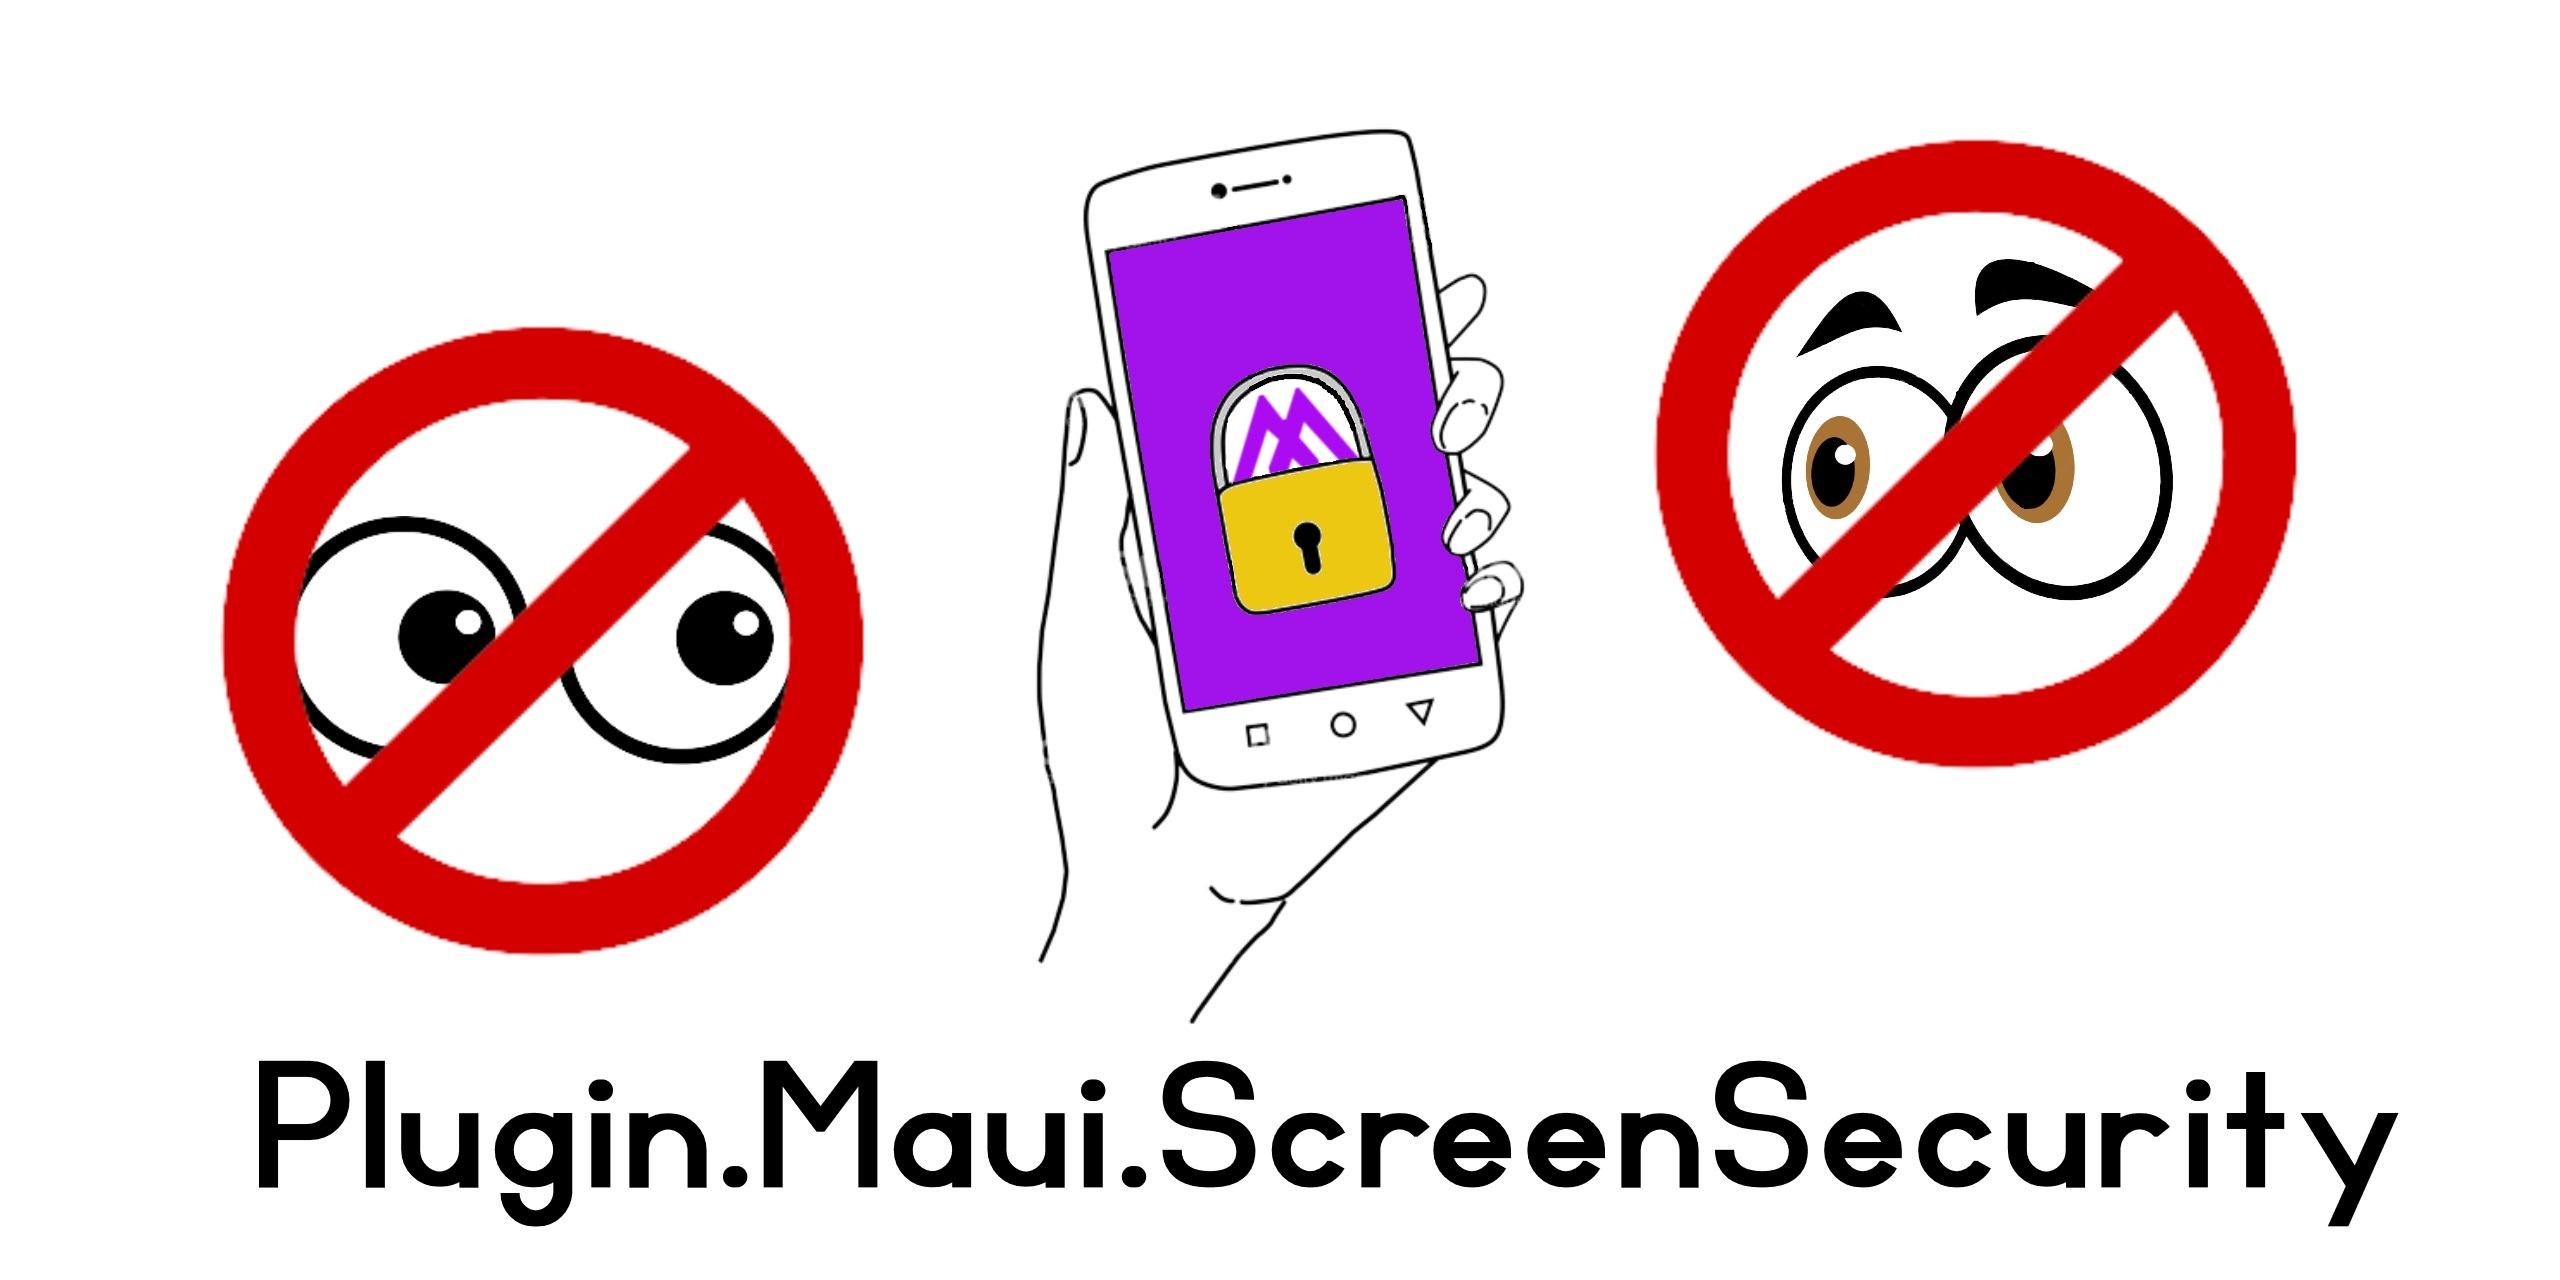
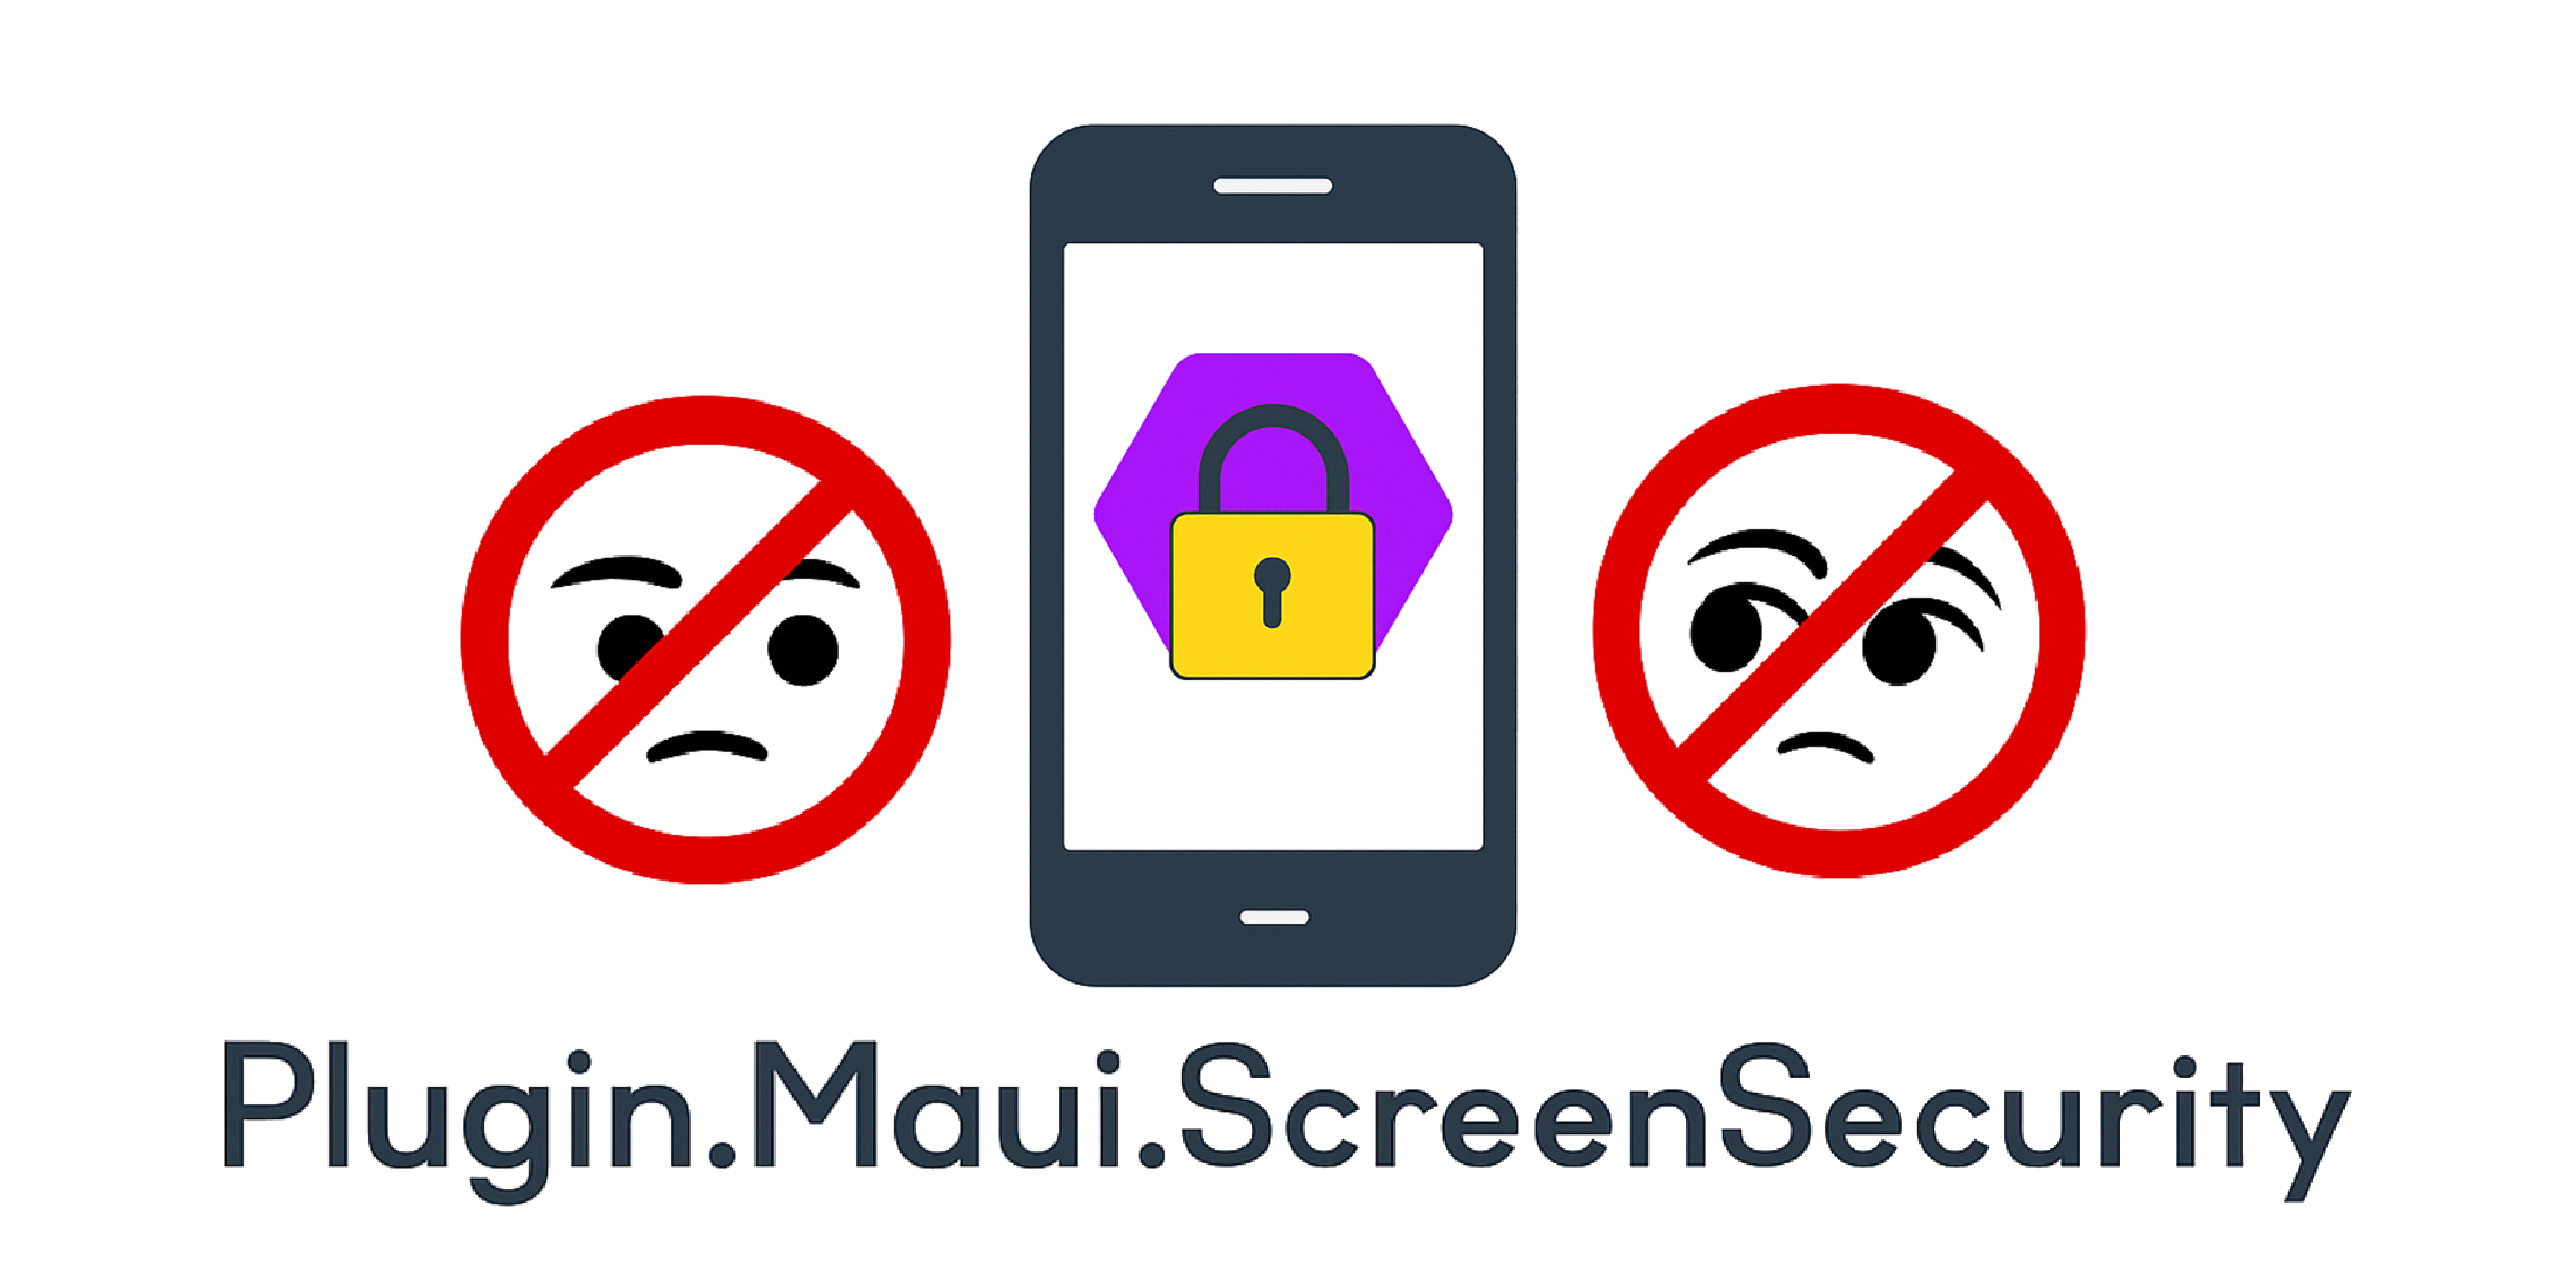
New release 1.2.3 (#60)

Changed region(s): [[0.0625, 0.0938, 0.5938, 0.7812], [0.625, 0.0938, 0.9062, 0.6875], [0.0625, 0.8125, 0.9375, 0.9688]]

diff --git a/README.md b/README.md
@@ -1,31 +1,34 @@
+![](Assets/plugin.maui.screensecurity_128x128.png)
+
 # Plugin.Maui.ScreenSecurity
 [![NuGet](https://img.shields.io/nuget/v/Plugin.Maui.ScreenSecurity.svg?label=NuGet)](https://www.nuget.org/packages/Plugin.Maui.ScreenSecurity) [![NuGet Downloads](https://img.shields.io/nuget/dt/Plugin.Maui.ScreenSecurity)](https://www.nuget.org/packages/Plugin.Maui.ScreenSecurity/#versions-body-tab) [![Buy Me a Coffee](https://img.shields.io/badge/support-buy%20me%20a%20coffee-FFDD00)](https://buymeacoffee.com/fabribertani)
 
 `Plugin.Maui.ScreenSecurity` provides a seamless solution for preventing content exposure, as well as blocking screenshots and recordings within your .NET MAUI application
 
 ## Platforms supported
-|Platform|Version|
-|-------------------|:------------------:|
-|.Net MAUI Android|API 21+|
-|.Net MAUI iOS|iOS 14+|
-|Windows|10.0.17763+|
+| Platform          |   Version   |
+|-------------------|:-----------:|
+| .Net MAUI Android | API 21+     |
+| .Net MAUI iOS.    | iOS 14.2+   |
+| Windows           | 10.0.17763+ |
 
-## Version 1.2.2
+## Version 1.2.3
 
 ### What's new?
-- Removed .Net7 support. :warning:
-- Added .Net9 support for all platforms.
-- Code improvements were applied.
-- Fixed an issue where blur protection was not being disabled.
-- Fixed a bug that prevented samples projects from compiling.
-- Fixed package build to properly include Windows platform.
+- Added the `ThrowErrors` property to allow users to catch exceptions with the new error handling implementation.
+- Added better hooks, error handling and logging.
+- Added support for Windows 10 Version 2004 and above.
+- Applied code improvements to the library.
+- Updated sample project.
+- Changed CHANGELOG date format to **ISO 8601** `(yyyy-MM-dd)`.
+- Fixed the issue where the screen protection code was not running on the main thread.
 
-Click [here](https://github.com/FabriBertani/Plugin.Maui.ScreenSecurity/releases/tag/v1.2.2) to see the full Changelog!
+Click [here](https://github.com/FabriBertani/Plugin.Maui.ScreenSecurity/releases/tag/v1.2.3) to see the full Changelog!
 
 ## Installation
 `Plugin.Maui.ScreenSecurity` is available via NuGet, grab the latest package and install it on your solution:
 
-    Install-Package Plugin.Maui.ScreenSecurity
+    dotnet add package Plugin.Maui.ScreenSecurity --version 1.2.3
 
 Initialize the plugin in your `MauiProgram` class:
 
@@ -57,13 +60,8 @@ In your `Android.manifest` file (Platforms/Android) add the following permission
 <uses-permission android:name="android.permission.DETECT_SCREEN_CAPTURE" />
 ```
 
-### Using Plugin.Maui.ScreenSecurity
+## Using Plugin.Maui.ScreenSecurity
 
-Finally, add the default instance of the plugin as a singleton to inject it in your code late:
-
-```csharp
-builder.Services.AddSingleton<IScreenSecurity>(ScreenSecurity.Default);
-```
 ## :warning:  WARNING  :warning:
 It's important to acknowledge that preventing users from taking screenshots or recordings of your app can be a challenging task and achieving complete prevention may not be feasible. It's worth noting that no method can entirely eliminate the possibility of your screen being captured through another physical device or a potential breach in the OS.
 
@@ -122,6 +120,11 @@ bool IsProtectionEnabled { get; }
 This bool checks if screen protection is enabled.
 
 ```csharp
+ThrowErrors
+```
+This will allow users to catch exceptions with the new error handling implementation.
+
+```csharp
 event EventHandler<EventArgs>? ScreenCaptured;
 ```
 The event handler is triggered when the screen is captured, either through a screenshot or recording on Android and iOS, **but only for screenshots on Windows**.
@@ -138,6 +141,9 @@ public partial class MainPage : ContentPage
         InitializeComponent();
 
         _screenSecurity = screenSecurity;
+
+        // Set to true if you want to catch exceptions.
+        _screenSecurity.ThrowErrors = true;
     }
 
     protected override void OnAppearing()
@@ -147,8 +153,15 @@ public partial class MainPage : ContentPage
         // Check if screen security protection is not enabled
         if (!_screenSecurity.IsProtectionEnabled)
         {
-            // Activate the screen security protection with default settings
-            _screenSecurity.ActivateScreenSecurityProtection();
+            try
+            {
+                // Activate the screen security protection with default settings
+                _screenSecurity.ActivateScreenSecurityProtection();
+            }
+            catch (Exception ex)
+            {
+                // Handle the exception here...
+            }
         }
 
         // Attach to the ScreenCaptured event handler
@@ -201,10 +214,10 @@ public partial class MainPage : ContentPage
 Refer to the [samples folder](https://github.com/FabriBertani/Plugin.Maui.ScreenSecurity/tree/main/samples) for a detailed implementation of this plugin for both Maui and Blazor, which will give you a complete understanding of its usage.
 
 ## Contributions
-Please feel free to open an [Issue](https://github.com/FabriBertani/Plugin.Maui.ScreenSecurity/issues) if you encounter any bugs or submit a PR to contribute improvements or fixes. Your contributions are greatly appreciated.
+Feel free to open an [Issue](https://github.com/FabriBertani/Plugin.Maui.ScreenSecurity/issues) if you encounter any bugs or submit a PR to contribute improvements or fixes. Your contributions are greatly appreciated.
 
 ## License
-The Plugin.Maui.ScreenSecurity is licensed under [MIT](https://github.com/FabriBertani/Plugin.Maui.ScreenSecurity/blob/main/LICENSE) license.
+Plugin.Maui.ScreenSecurity is licensed under [MIT](https://github.com/FabriBertani/Plugin.Maui.ScreenSecurity/blob/main/LICENSE) license.
 
 ## Contributors
 

diff --git a/CHANGELOG.md b/CHANGELOG.md
@@ -1,13 +1,27 @@
 # Changelog
 
-## 1.2.2 (02/06/2025)
+## 1.2.3 (2025/10/09)
+[Full Changelog](https://github.com/FabriBertani/Plugin.Maui.ScreenSecurity/compare/v1.2.2...v1.2.3)
+
+**Implemented enhancements:**
+- Added the `ThrowErrors` property to allow users to catch exceptions with the new error handling implementation.
+- Added better hooks, error handling and logging.
+- Added support for Windows 10 Version 2004 and above.
+- Applied code improvements to the library.
+- Updated sample project.
+- Changed CHANGELOG date format to **ISO 8601** `(yyyy-MM-dd)`.
+
+**Fixed bugs:**
+- Fixed [#57 (Crash release - Main Thread issue)](https://github.com/FabriBertani/Plugin.Maui.ScreenSecurity/issues/57)
+
+## 1.2.2 (2025/06/02)
 [Full Changelog](https://github.com/FabriBertani/Plugin.Maui.ScreenSecurity/compare/v1.2.1...v1.2.2)
 
 **Fixed bugs:**
 - Fixed a bug that prevented samples projects from compiling.
 - Fixed package build to properly include Windows platform.
 
-## 1.2.1 (25/05/2025)
+## 1.2.1 (2025/05/25)
 [Full Changelog](https://github.com/FabriBertani/Plugin.Maui.ScreenSecurity/compare/v1.2.0...v1.2.1)
 
 **Implemented enhancements:**
@@ -18,7 +32,7 @@
 **Fixed bugs:**
 - Fixed issue where blur protection was not being disabled.
 
-## 1.2.0 (14/10/2024)
+## 1.2.0 (2024/10/14)
 [Full Changelog](https://github.com/FabriBertani/Plugin.Maui.ScreenSecurity/compare/v1.1.6...v1.2.0)
 
 **Implemented enhancements:**
@@ -33,21 +47,21 @@
 - Fixed `GetWindow` method on iOS.
 - Merged [#39: Bug iOS on Blur](https://github.com/FabriBertani/Plugin.Maui.ScreenSecurity/pull/39) PR by [fabien367](https://github.com/fabien367).
 
-## 1.1.8-beta (25/05/2024)
+## 1.1.8-beta (2024/05/25)
 [Full Changelog](https://github.com/FabriBertani/Plugin.Maui.ScreenSecurity/compare/v1.1.7-beta...v1.1.8-beta)
 
 **Implemented enhancements:**
 - Added `Blazor` sample to showcase the implementation of this plugin.
 - Added `IsProtectionEnabled` property to check if screen protection is already enabled or disabled.
 
-## 1.1.7-beta (18/05/2024)
+## 1.1.7-beta (2024/05/18)
 [Full Changelog](https://github.com/FabriBertani/Plugin.Maui.ScreenSecurity/compare/v1.1.6...v1.1.7-beta)
 
 **Fixed bugs:**
 - Implemented a new screenshot prevention method for iOS 17.
 - Fixed `GetWindow` method on iOS.
 
-## 1.1.6 (18/03/2024)
+## 1.1.6 (2024/03/18)
 [Full Changelog](https://github.com/FabriBertani/Plugin.Maui.ScreenSecurity/compare/v1.1.5...v1.1.6)
 
 **Implemented enhancements:**
@@ -57,7 +71,7 @@
 **Fixed bugs:**
 - Merged [#22: iOS 17 fix](https://github.com/FabriBertani/Plugin.Maui.ScreenSecurity/pull/22) PR by [Gogzs](https://github.com/Gogzs).- Fixed screenshot not working on iOS 17+ issue, by changing the screenshot protection implementation, now a blank white or black (depending on the current OS theme) is added before taking the screenshot to cover the screen content.
 
-## 1.1.5 (24/10/2023)
+## 1.1.5 (2023/10/24)
 [Full Changelog](https://github.com/FabriBertani/Plugin.Maui.ScreenSecurity/compare/v1.1.0...v1.1.5)
 
 **Breaking changes:**
@@ -66,7 +80,7 @@
 **Implemented enhancements:**
 - Added .net6 and .net7 targets.
 
-## 1.1.0 (21/07/2023)
+## 1.1.0 (2023/07/21)
 [Full Changelog](https://github.com/FabriBertani/Plugin.Maui.ScreenSecurity/compare/v1.0.0...v1.1.0)
 
 **Breaking changes:**
@@ -83,20 +97,20 @@
 - Blur screen protection not working properly due to interference with screenshot protection.
 - Failed to disable and re-enable the protections due to an iOS layer issue in the screenshot protection.
 
-## 1.0.7-beta (18/07/2023)
+## 1.0.7-beta (2023/07/18)
 [Full Changelog](https://github.com/FabriBertani/Plugin.Maui.ScreenSecurity/compare/v1.0.6-beta...v1.0.7-beta)
 
 **Implemented enhancements:**
 - Added .Net6 support to all platforms.
 
-## 1.0.6-beta (18/07/2023)
+## 1.0.6-beta (2023/07/18)
 [Full Changelog](https://github.com/FabriBertani/Plugin.Maui.ScreenSecurity/compare/v1.0.5-beta...v1.0.6-beta)
 
 **Fixed bugs:**
 - Blur screen protection not working properly due to interference with screenshot protection.
 - Failed to disable and re-enable the protections due to an iOS layer issue in the screenshot protection.
 
-## 1.0.5-beta (17/07/2023)
+## 1.0.5-beta (2023/07/17)
 [Full Changelog](https://github.com/FabriBertani/Plugin.Maui.ScreenSecurity/compare/v1.0.4-beta...v1.0.5-beta)
 
 **Implemented enhancements:**
@@ -105,7 +119,7 @@
 - Created `StringsExtensions` helper on iOS to validate strings using regular expressions.
 - Created new class name `ScreenProtectionOptions` that will be used as parameter on the new unified api.
 
-## 1.0.4-beta (12/07/2023)
+## 1.0.4-beta (2023/07/12)
 [Full Changelog](https://github.com/FabriBertani/Plugin.Maui.ScreenSecurity/compare/v1.0.3-beta...v1.0.4-beta)
 
 **Implemented enhancements:**
@@ -123,18 +137,18 @@
     - Implementing new ErrorsHandler.
 
 
-## 1.0.3-beta (09/07/2023)
+## 1.0.3-beta (2023/07/09)
 [Full Changelog](https://github.com/FabriBertani/Plugin.Maui.ScreenSecurity/compare/v1.0.0...v1.0.3-beta)
 
 **Implemented enhancements:**
 - Added screenshot prevention for iOS
 
-## 1.0.2-beta (03/06/2023)
+## 1.0.2-beta (2023/06/03)
 
 **Fixed bugs:**
 - Fixed Android thread exception: [#6 Exception: Only the original thread that created a view hierarchy can touch its views](https://github.com/FabriBertani/Plugin.Maui.ScreenSecurity/issues/6)
 
-## 1.0.1-beta (29/05/2023)
+## 1.0.1-beta (2023/05/29)
 
 **Implemented enhancements:**
 - Added Windows support
